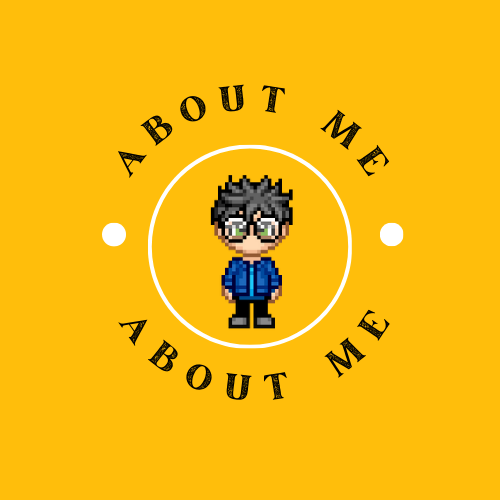
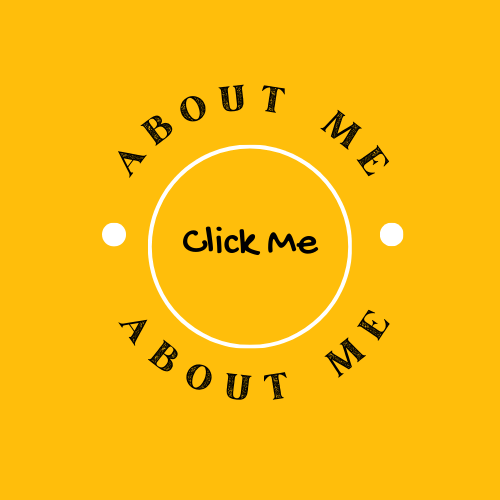
Testing

Changed region(s): [[0.36, 0.33, 0.63, 0.66]]

diff --git a/src/components/ExtendedAboutMe.jsx b/src/components/ExtendedAboutMe.jsx
@@ -1,0 +1,22 @@
+import React from 'react'
+
+const ExtendedAboutMe = () => {
+  return (
+    <div className=' pt-3'>
+    <div className=' py-14 bg-black text-white flex  flex-col justify-evenly border-2 border-black ' >
+       <div className=" font-bold text-5xl lg:text-4xl md:text-3xl px-16 lg:px-12 md:px-3  text-left  "> Spotify-Clone</div>
+      <br />
+       
+        <div className='flex gap-16 lg:gap-6 md:gap-1 md:flex-col w-full px-16 lg:px-12 md:px-3 text-2xl md:text-xl italic   '><div className='h-fit my-auto'>
+A clone of one of the most popular streaming websites spotify. <br />Made with the help of Next-js , Tailwind and Supabase . <br />
+Contains various functinalities like User Authentication, Song Upload , Liked Playlist and ofcourse song playback.<br />
+<span className='font-bold'> Live Website</span> -{'>'} <a href="https://spotify-clone-oydb.vercel.app/" className='text-purple-800 font-bold hover:bg-white p-3'>Spotify-Clone</a> </div>
+<br /><div>
+<iframe className=' h-96 w-96 md:w-60 md:h-60 md:' src="https://spotify-clone-oydb.vercel.app/" frameborder="0" title='spotify-clone' ></iframe></div>
+
+</div>
+    </div></div>
+  )
+}
+
+export default ExtendedAboutMe

diff --git a/src/components/AboutMe.jsx b/src/components/AboutMe.jsx
@@ -1,9 +1,10 @@
 import React from 'react'
 import {motion} from "framer-motion";
+import { Link } from 'react-router-dom';
 const AboutMe = () => {
   return (
     <div className='mx-12 py-14 flex  md:flex-col justify-evenly ' >
-       <motion.div animate={{ rotate: 360 }} transition={{ duration: 12, repeat: Infinity, ease: 'linear' }} className='my-auto mx-auto ' ><motion.img whileHover={{scale:1.2}} className='cursor-pointer w-52 object-cover' src={require("./Content Writing/aboutme.png")} alt="about me" /></motion.div>
+       <motion.div animate={{ rotate: 360 }} transition={{ duration: 12, repeat: Infinity, ease: 'linear' }} className='my-auto mx-auto ' ><Link to="/aboutMe"><motion.img whileHover={{scale:1.2}} className='cursor-pointer w-52 object-cover ' src={require("./Content Writing/aboutme.png")} alt="about me" /></Link></motion.div>
 <br/>
        
         <div className='w-[50%] md:w-full text-2xl font-semibold md:py-2 py-12 z-10'>

diff --git a/src/App.js b/src/App.js
@@ -5,6 +5,7 @@ import { Route, Routes } from 'react-router-dom';
 import Home from "./components/Home.jsx";
 import Navbar from './components/Navbar.jsx';
 import Projects from './components/Projects.jsx';
+import ExtendedAboutMe from './components/ExtendedAboutMe.jsx';
 
 
 
@@ -21,6 +22,7 @@ function App() {
 
         <Route exact path="/" element={<Home/>} />
         <Route path="/projects" element={<Projects/>} />
+        <Route path="/aboutMe" element={<ExtendedAboutMe/>} />
       </Routes>
     
       

diff --git a/src/components/Navbar.jsx b/src/components/Navbar.jsx
@@ -28,6 +28,7 @@ const Navbar = () => {
           <div><Link to="/" className=" hover:bg-white p-2 rounded-lg ">Home</Link></div>
          
           <div><Link to="/projects" className=" hover:bg-white p-2 rounded-lg">Projects</Link></div>
+          
          
         </div>
 

diff --git a/public/index.html b/public/index.html
@@ -32,6 +32,9 @@
     -->
     <title>Alucard-Spec</title>
   </head>
+  <style>:root{
+    -webkit-tap-highlight-color: transparent;
+  }</style>
   <body>
     <noscript>You need to enable JavaScript to run this app.</noscript>
     <div id="root"></div>
